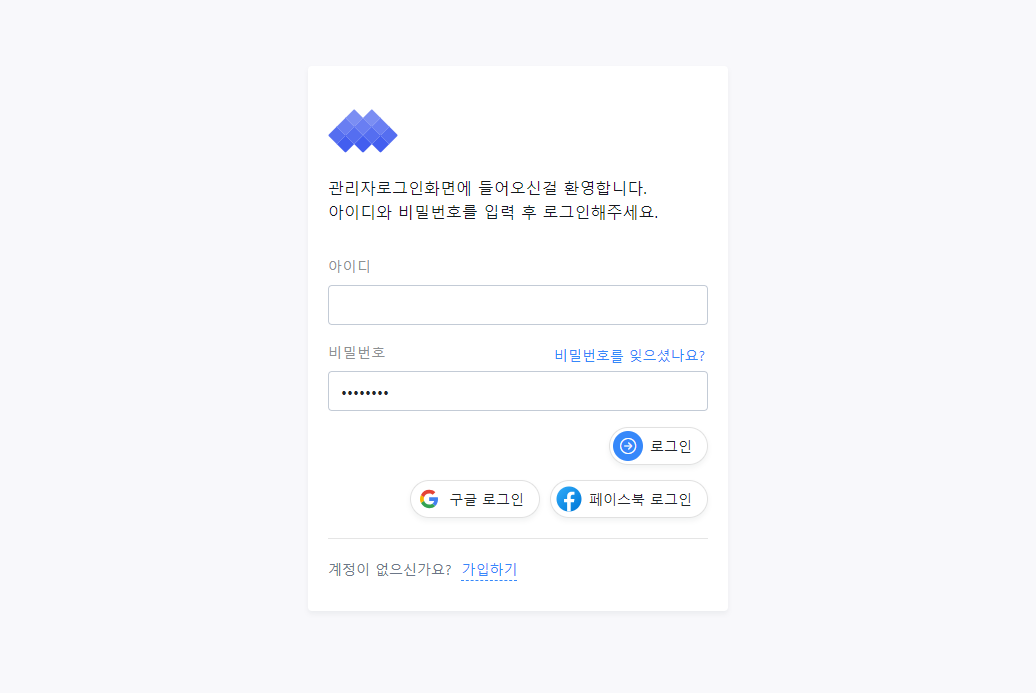
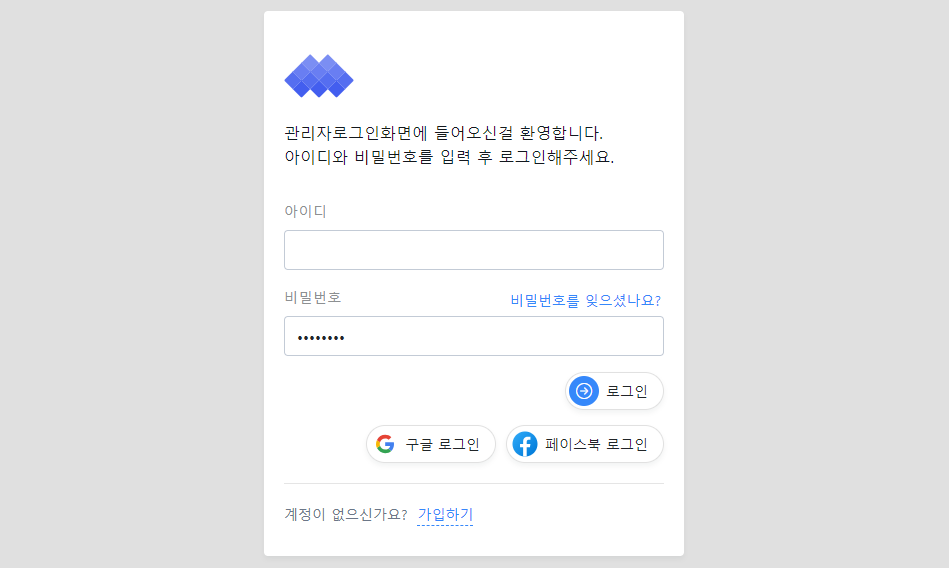
portfolioIndex 수정

diff --git a/apink/src/main/resources/templates/v1/infra/user/myPage.html b/apink/src/main/resources/templates/v1/infra/user/myPage.html
@@ -55,9 +55,9 @@
                                     <div class="nav nav-tabs" role="tablist">
                                     	<a class="nav-item nav-link active" data-bs-toggle="tab" href="#nav-account" role="tab" aria-selected="false"><i class="fas fa-user"></i>계정</a>
                                     	<a class="nav-item nav-link" data-bs-toggle="tab" href="#nav-pssword" role="tab" aria-selected="false"><i class="fas fa-user"></i>비밀번호 변경</a>
-                                        <a class="nav-item nav-link" data-bs-toggle="tab" href="#nav-address" role="tab" aria-selected="false"><i class="fas fa-home"></i>주소</a>
+                                        <!-- <a class="nav-item nav-link" data-bs-toggle="tab" href="#nav-address" role="tab" aria-selected="false"><i class="fas fa-home"></i>주소</a> -->
                                         <a class="nav-item nav-link" data-bs-toggle="tab" href="#nav-orders" role="tab" aria-selected="false"><i class="fas fa-shopping-basket"></i>주문내역</a>
-                                        <a class="nav-item nav-link" href="sign-in.html"><i class="fal fa-sign-out"></i>로그아웃</a>
+                                        <a class="nav-item nav-link" onclick="logout()"><i class="fal fa-sign-out"></i>로그아웃</a>
                                     </div>
                                 </nav>
                             </aside>
@@ -100,14 +100,14 @@
                                                         <label>성별</label>
                                                         <select class="select2" name="mbGender" >
 															<th:block th:each="list : ${@codeService.selectListCachedCode(2)}">
-																<option th:value="${list.cdSeq}" th:text="${list.cdName}" th:selected="${item.mbGender == list.cdSeq}"></option>
+																<option th:selected="${item.mbGender == list.cdSeq}" th:value="${list.cdSeq}" th:text="${list.cdName}" ></option>
 															</th:block>
 														</select>
                                                     </div>
                                                 </div>
-                                                <div class="col-lg-6">
+                                                <div class="col-lg-12">
                                                 	<div class="form-group mb--0">
-                                                        <input type="submit" class="axil-btn" value="저장" onclick="javascript: form.action='update';">
+                                                        <button type="submit" class="axil-btn" onclick="javascript: form.action='update';">저장</button>
                                                 	</div>
                                                 </div>
                             				</div>
@@ -214,7 +214,7 @@
                                     <div th:replace= "~{v1/infra/blockDeclaration/user/body :: pageButton}"></div>
                                 	<!-- 페이징종료 -->
                                 </div>
-                                <div class="tab-pane fade" id="nav-address" role="tabpanel">
+                                <!-- <div class="tab-pane fade" id="nav-address" role="tabpanel">
                                     <div class="axil-dashboard-address">
                                         <div class="row row--30">
                                         	<div class="col-12">
@@ -235,54 +235,9 @@
                                                     </ul>
                                                 </div>
                                             </div>
-                                            <div class="col-lg-6">
-                                                <div class="address-info">
-                                                    <div class="addrss-header d-flex align-items-center justify-content-between">
-                                                        <h4 class="title mb-0">회사주소</h4>
-                                                        <a href="#" class="address-edit"><i class="far fa-edit"></i></a>
-                                                    </div>
-                                                    <ul class="address-details">
-                                                        <li>이름: (주)영일</li>
-                                                        <li>이메일: kim01@naver.com</li>
-                                                        <li>전화번호: 010-0001-0001</li>
-                                                        <li class="mt--30">서울특별시 중랑구 겸재로2길 63 <br>
-                                                        송림리치빌 나동 403호</li>
-                                                    </ul>
-                                                </div>
-                                            </div>
-                                            <div class="col-lg-6">
-                                                <div class="address-info">
-                                                    <div class="addrss-header d-flex align-items-center justify-content-between">
-                                                        <h4 class="title mb-0">본가주소</h4>
-                                                        <a href="#" class="address-edit"><i class="far fa-edit"></i></a>
-                                                    </div>
-                                                    <ul class="address-details">
-                                                        <li>이름: 김영이</li>
-                                                        <li>이메일: kim02@naver.com</li>
-                                                        <li>전화번호: 010-0002-0002</li>
-                                                        <li class="mt--30">서울특별시 중랑구 겸재로2길 63 <br>
-                                                        송림리치빌 나동 403호</li>
-                                                    </ul>
-                                                </div>
-                                            </div>
-                                            <div class="col-lg-6">
-                                                <div class="address-info">
-                                                    <div class="addrss-header d-flex align-items-center justify-content-between">
-                                                        <h4 class="title mb-0">친구주소</h4>
-                                                        <a href="#" class="address-edit"><i class="far fa-edit"></i></a>
-                                                    </div>
-                                                    <ul class="address-details">
-                                                        <li>이름: 김영삼</li>
-                                                        <li>이메일: kim03@naver.com</li>
-                                                        <li>전화번호: 010-0003-0003</li>
-                                                        <li class="mt--30">서울특별시 중랑구 겸재로2길 63 <br>
-                                                        송림리치빌 나동 403호</li>
-                                                    </ul>
-                                                </div>
-                                            </div>
                                         </div>
                                     </div>
-                                </div>
+                                </div> -->
                             </div>
                         </div>
                     </div>

diff --git a/apink/src/main/resources/templates/v1/infra/portfolio/portfolioIndex.html b/apink/src/main/resources/templates/v1/infra/portfolio/portfolioIndex.html
@@ -54,14 +54,14 @@
             <div class="container">
                 <div class="text-center">
                     <h2 class="section-heading text-uppercase">Personal Project</h2>
-                    <h3 class="section-subheading text-muted">2024년 2월 23일 ~ 2024년 6월 20일 </h3>
+                    <h3 class="section-subheading text-muted">가상의 쇼핑몰을 생각하여 만든 개인 프로젝트입니다. </h3>
                 </div>
                 <div class="row">
                 	<div class="col-lg-6 col-sm-6 mb-6">
                         <!-- Portfolio item 2-->
                         <div class="portfolio-item">
                             <a class="portfolio-link" th:href="@{/indexUser}" target="_blank">
-                                <img class="img-fluid" src="xdmin/v1/assets/img/portfolio/userProject.png" alt="..." />
+                                <img class="img-fluid" id="imgsize" src="xdmin/v1/assets/img/portfolio/userProject.png" alt="..." />
                             </a>
                             <!-- <div class="portfolio-caption">
                                 <div class="portfolio-caption-heading">UserProject</div>
@@ -72,7 +72,7 @@
                         <!-- Portfolio item 1-->
                         <div class="portfolio-item" >
                             <a class="portfolio-link" th:href="@{/loginXdm}" style="float: left" target="_blank">
-                                <img class="img-fluid" src="xdmin/v1/assets/img/portfolio/loginAdm.png">
+                                <img class="img-fluid" id="imgsize" src="xdmin/v1/assets/img/portfolio/loginAdm.png">
                             </a>
                             <!-- <div class="portfolio-caption">
                                 <div class="portfolio-caption-heading">AdminProject</div>

diff --git a/apink/src/main/resources/templates/v1/infra/blockDeclaration/head.html b/apink/src/main/resources/templates/v1/infra/blockDeclaration/head.html
@@ -32,7 +32,7 @@
 		<link rel="stylesheet" href="xdmin/v1/fonts/bootstrap/bootstrap-icons.css">
 
 		<!-- Main css -->
-		<link rel="stylesheet" href="xdmin/v1/css/main.min.css">
+		<link rel="stylesheet" href="xdmin/v1/css/main.css">
 
 
 		<!-- *************

diff --git a/apink/src/main/resources/templates/v1/infra/loginXdm/loginXdm.html b/apink/src/main/resources/templates/v1/infra/loginXdm/loginXdm.html
@@ -3,7 +3,7 @@
 
 	<head th:replace="~{v1/infra/blockDeclaration/head :: head}"></head>
 
-	<body class="login-container">
+	<body class="login-container" id="background">
 
 		<!-- Loading wrapper start -->
 		<!-- <div id="loading-wrapper">

diff --git a/apink/src/main/resources/static/xdmin/v1/css/styles.css b/apink/src/main/resources/static/xdmin/v1/css/styles.css
@@ -17,7 +17,15 @@
 	object-fit: cover;
 	margin: auto
 }
- 	
+
+#imgsize {
+    width: 630px;
+    height: 360px;
+    position: relative;
+	display: block;
+	margin: 0 auto;
+}
+
 :root {
   --bs-blue: #0d6efd;
   --bs-indigo: #6610f2;

diff --git a/apink/src/main/resources/static/xdmin/v1/js/common.js b/apink/src/main/resources/static/xdmin/v1/js/common.js
@@ -8,9 +8,7 @@
 		,url: "/signoutinxdm"
 		,success: function(response) {
 			if(response.rt == "success") {
-				
 				location.href = "/loginXdm";
-				
 			} else {
 				alert("로그아웃 실패.");
 		 		

diff --git a/apink/src/main/resources/static/xdmin/v1/css/main.css b/apink/src/main/resources/static/xdmin/v1/css/main.css
@@ -14608,6 +14608,7 @@ ul.sales-stats li p span small, ul.sales-stats li p span .small {
   align-items: center;
   justify-content: center;
   height: 100%;
+  background-color: #e0e0e0;
 }
 
 .login-box {

diff --git a/apink/src/main/java/com/blackpink/infra/address/AddressDto.java b/apink/src/main/java/com/blackpink/infra/address/AddressDto.java
@@ -1,0 +1,143 @@
+package com.blackpink.infra.address;
+
+import java.util.Date;
+
+public class AddressDto {
+
+	private String arSeq;
+	private String arName;
+	private String arUserName;
+	private String arPhoneNumber;
+	private int arPostalCode;
+	private String arNumberAddress;
+	private String arRoadNameAddress;
+	private String arDetailAddress;
+	private String arSeeAlso;
+	private int arLatitude;
+	private int arLongitude;
+	private Integer arDeleteNy;
+	private Date arCreationDate;
+	private Date arModificationDate;
+	private String mbSeq;
+	
+	public String getArSeq() {
+		return arSeq;
+	}
+	
+	public String getArName() {
+		return arName;
+	}
+
+	public void setArName(String arName) {
+		this.arName = arName;
+	}
+
+	public void setArSeq(String arSeq) {
+		this.arSeq = arSeq;
+	}
+	
+	public String getArUserName() {
+		return arUserName;
+	}
+	
+	public void setArUserName(String arUserName) {
+		this.arUserName = arUserName;
+	}
+	
+	public String getArPhoneNumber() {
+		return arPhoneNumber;
+	}
+	
+	public void setArPhoneNumber(String arPhoneNumber) {
+		this.arPhoneNumber = arPhoneNumber;
+	}
+	
+	public int getArPostalCode() {
+		return arPostalCode;
+	}
+	
+	public void setArPostalCode(int arPostalCode) {
+		this.arPostalCode = arPostalCode;
+	}
+	
+	public String getArNumberAddress() {
+		return arNumberAddress;
+	}
+	
+	public void setArNumberAddress(String arNumberAddress) {
+		this.arNumberAddress = arNumberAddress;
+	}
+	
+	public String getArRoadNameAddress() {
+		return arRoadNameAddress;
+	}
+	
+	public void setArRoadNameAddress(String arRoadNameAddress) {
+		this.arRoadNameAddress = arRoadNameAddress;
+	}
+	
+	public String getArDetailAddress() {
+		return arDetailAddress;
+	}
+	
+	public void setArDetailAddress(String arDetailAddress) {
+		this.arDetailAddress = arDetailAddress;
+	}
+	
+	public String getArSeeAlso() {
+		return arSeeAlso;
+	}
+	
+	public void setArSeeAlso(String arSeeAlso) {
+		this.arSeeAlso = arSeeAlso;
+	}
+	
+	public int getArLatitude() {
+		return arLatitude;
+	}
+	
+	public void setArLatitude(int arLatitude) {
+		this.arLatitude = arLatitude;
+	}
+	
+	public int getArLongitude() {
+		return arLongitude;
+	}
+	
+	public void setArLongitude(int arLongitude) {
+		this.arLongitude = arLongitude;
+	}
+	
+	public Integer getArDeleteNy() {
+		return arDeleteNy;
+	}
+	
+	public void setArDeleteNy(Integer arDeleteNy) {
+		this.arDeleteNy = arDeleteNy;
+	}
+	
+	public Date getArCreationDate() {
+		return arCreationDate;
+	}
+	
+	public void setArCreationDate(Date arCreationDate) {
+		this.arCreationDate = arCreationDate;
+	}
+	
+	public Date getArModificationDate() {
+		return arModificationDate;
+	}
+	
+	public void setArModificationDate(Date arModificationDate) {
+		this.arModificationDate = arModificationDate;
+	}
+	
+	public String getMbSeq() {
+		return mbSeq;
+	}
+	
+	public void setMbSeq(String mbSeq) {
+		this.mbSeq = mbSeq;
+	}
+	
+}

diff --git a/apink/src/main/java/com/blackpink/infra/mypage/MypageController.java b/apink/src/main/java/com/blackpink/infra/mypage/MypageController.java
@@ -27,6 +27,8 @@ public class MypageController {
 	@Autowired
 	MypageService MypageService;
 	
+	
+	
 	@RequestMapping(value = "/myPage")
 	public String myPage(@ModelAttribute("vo")PaymentVo vo,Model model, HttpSession httpSession) throws Exception {
 		
@@ -93,7 +95,19 @@ public class MypageController {
 	}
 	return returnMap;
 	}
-
+	
+	@ResponseBody
+	@RequestMapping(value = "/logoutUser")
+	public Map<String, Object> logoutUser(HttpSession httpSession) {
+		
+		Map<String, Object> returnMap = new HashMap<String, Object>();
+		
+		httpSession.invalidate();
+		
+		returnMap.put("rt", "success");
+		return returnMap;
+	}
+	
 	@ResponseBody
 	@RequestMapping(value = "/newPassword")
 	public Map<String, Object> newPassword(@ModelAttribute("vo")PaymentVo vo, PaymentDto dto, HttpSession httpSession) {

diff --git a/apink/src/main/java/com/blackpink/infra/payment/PaymentDto.java b/apink/src/main/java/com/blackpink/infra/payment/PaymentDto.java
@@ -17,7 +17,7 @@ public class PaymentDto {
 	
 	private String mbName;
 	private Date mbDateBirth;
-	private Integer mbGender;
+	private String mbGender;
 	private String mbEmail;
 	private String mbPassword;
 	private String mbPhoneNumber;
@@ -120,11 +120,11 @@ public class PaymentDto {
 		this.mbDateBirth = mbDateBirth;
 	}
 	
-	public Integer getMbGender() {
+	public String getMbGender() {
 		return mbGender;
 	}
 	
-	public void setMbGender(Integer mbGender) {
+	public void setMbGender(String mbGender) {
 		this.mbGender = mbGender;
 	}
 	

diff --git a/apink/src/main/java/com/blackpink/infra/address/AddressDao.java b/apink/src/main/java/com/blackpink/infra/address/AddressDao.java
@@ -1,0 +1,5 @@
+package com.blackpink.infra.address;
+
+public interface AddressDao {
+
+}

diff --git a/apink/src/main/java/com/blackpink/infra/address/AddressService.java b/apink/src/main/java/com/blackpink/infra/address/AddressService.java
@@ -1,0 +1,5 @@
+package com.blackpink.infra.address;
+
+public class AddressService {
+
+}
